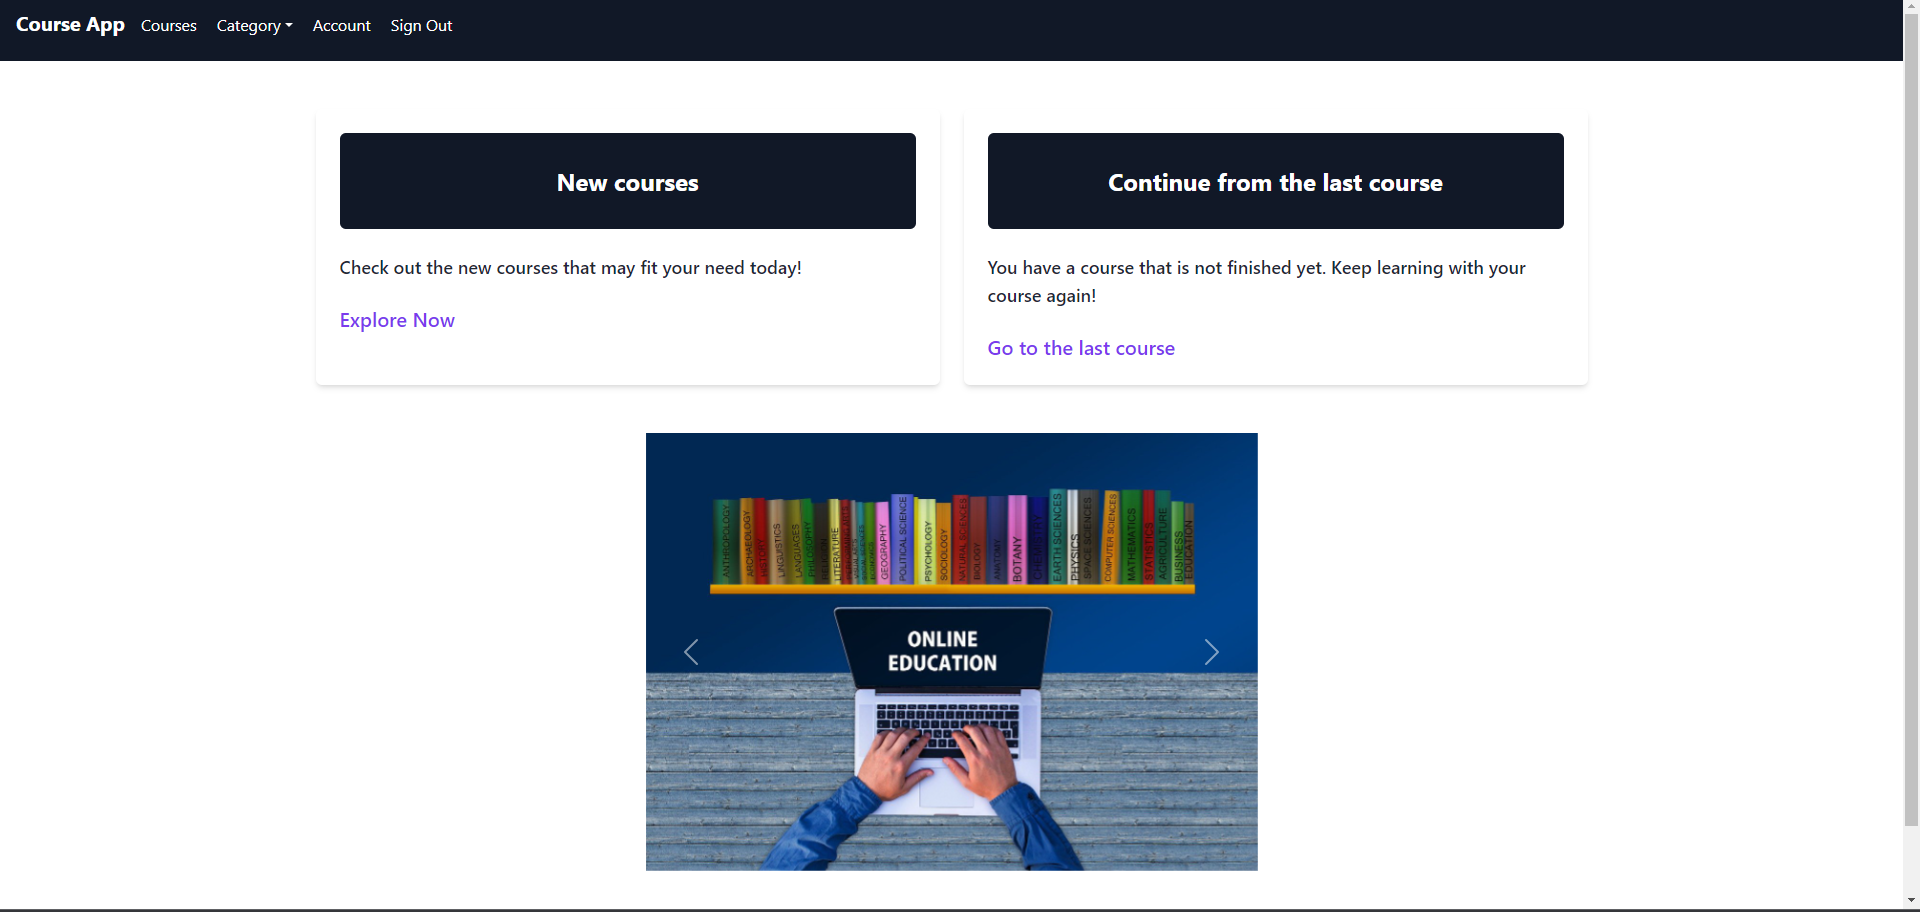
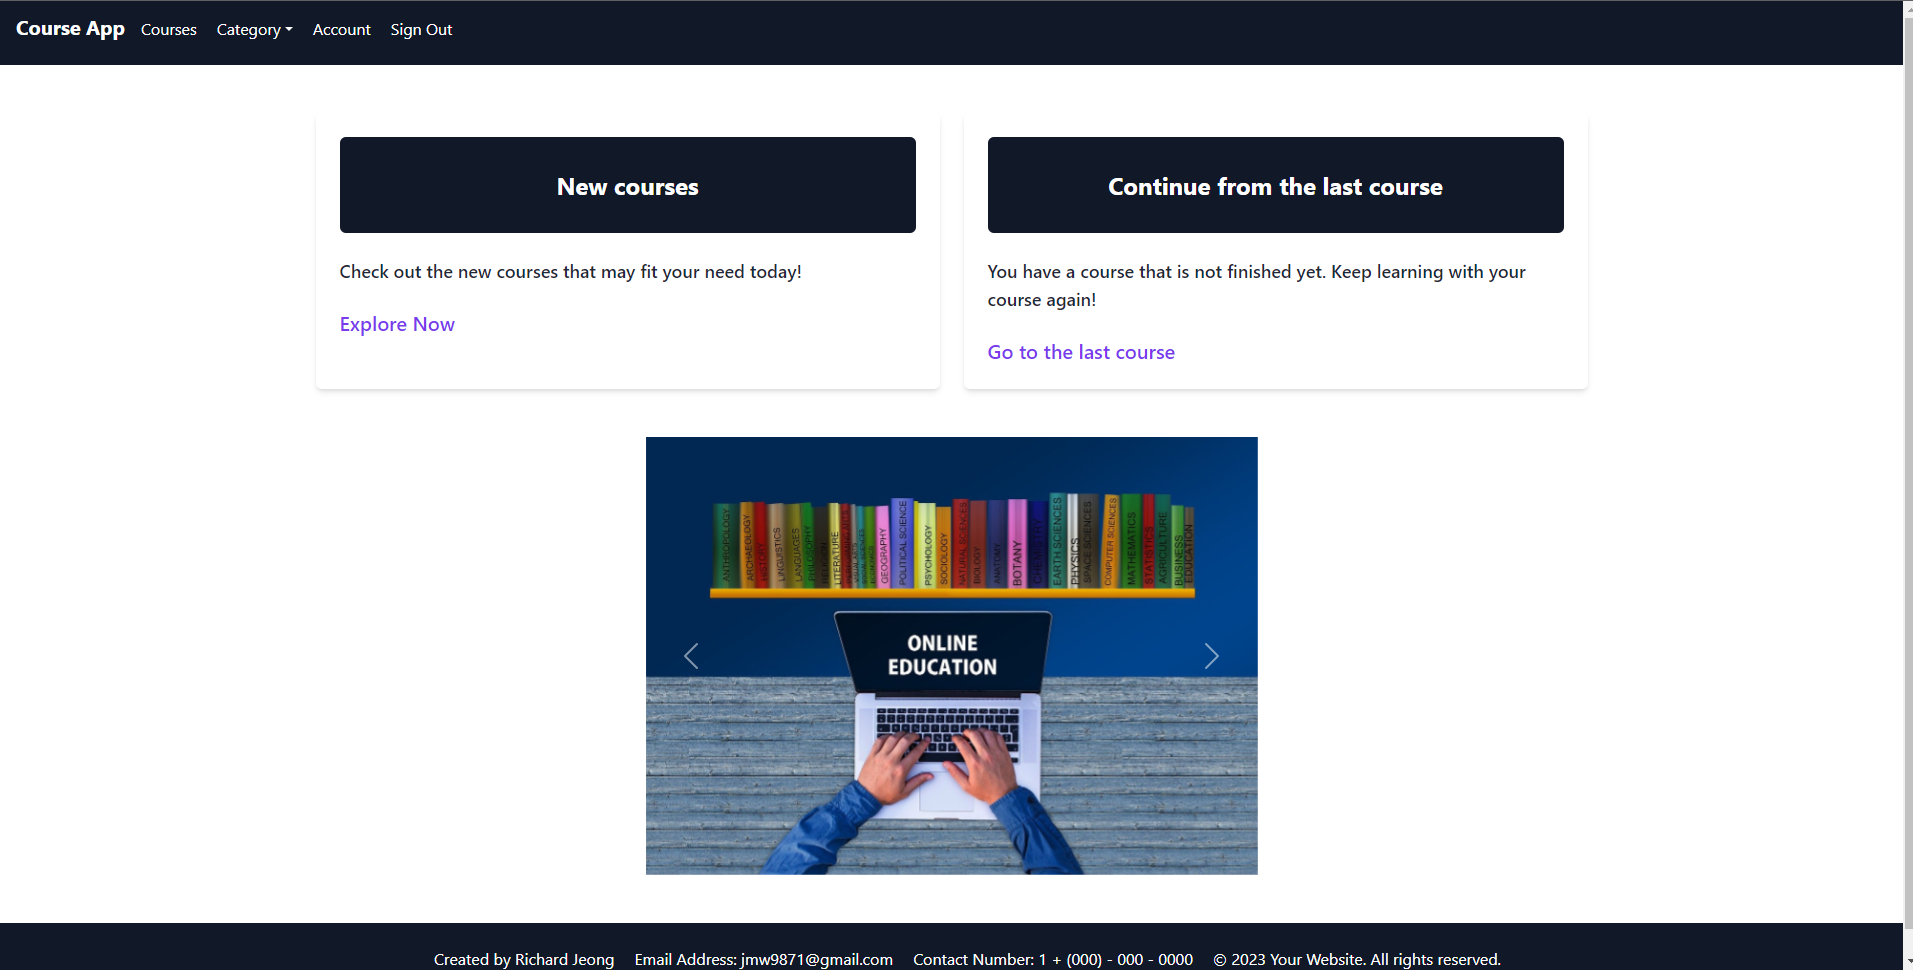
Updated courseInfo page styles.

diff --git a/src/components/CourseInfo.jsx b/src/components/CourseInfo.jsx
@@ -8,14 +8,15 @@ const CourseInfo = ({course, category}) => {
 
     return (
       <div className="flex justify-center items-center min-h-screen">
-        <div className="bg-white shadow-md rounded px-8 pt-6 pb-8 mb-4 flex flex-col my-2 w-1/2">
-          <h2 className="mb-4 text-xl font-bold text-gray-700">{title}</h2>
-          <h3 className="mb-2 text-lg font-semibold text-gray-600">Instructor: Instructor Name</h3>
-          <div className="mb-2 text-gray-600">Category: {category}</div>
-          <p className="mb-2 text-gray-600">Description: {description}</p>
-          <div className="mb-2 text-gray-600">Price: ${price}</div>
-          <div className="mb-2 text-gray-600">Upload Date: {updated_at}</div>
-          <div className="mb-4 text-gray-600">Number of Users: 100</div>
+        <div className="bg-white shadow-lg rounded px-8 pb-28 mb-4 flex flex-col my-2 md:w-1/2">
+          <div className="mt-24">
+          <h2 className="bg-gray-900 px-1 mb-3 text-xl font-bold text-white">{title}</h2>
+          <h3 className="px-2 mb-2 text-lg font-semibold text-gray-600">Instructor: Instructor Name</h3>
+          <div className="px-2 mb-2 text-gray-600">Category: {category}</div>
+          <p className="px-2 mb-2 text-gray-600">Description: {description}</p>
+          <div className="px-2 mb-2 text-gray-600">Price: ${price}</div>
+          <div className="px-2 mb-2 text-gray-600">Upload Date: {updated_at}</div>
+          <div className="px-2 mb-4 text-gray-600">Number of Users: 100</div>
           
           <form>
             <div className="mb-4">
@@ -30,6 +31,7 @@ const CourseInfo = ({course, category}) => {
               <input className="bg-blue-500 hover:bg-blue-700 text-white font-bold py-2 px-4 rounded focus:outline-none focus:shadow-outline" type="submit" value="Submit" />
             </div>
           </form>
+          </div>
         </div>
       </div>
     );

diff --git a/src/components/Footer.jsx b/src/components/Footer.jsx
@@ -3,14 +3,14 @@ import React from 'react';
 const Footer = () => {
   return (
     <footer className="bg-gray-900 text-white py-2 flex items-center justify-center mt-5">
-      <nav className="flex items-center space-x-2 space-y-3 mt-3">
-        <ul className="flex space-x-5">
-        <li>Created by Richard Jeong</li>
-        <li>Email Address: jmw9871@gmail.com</li>
-        <li>Contact Number: 1 + (000) - 000 - 0000</li>
-        <li>&copy; {new Date().getFullYear()} Your Website. All rights reserved.</li>
+      <div className="mx-auto p-4 md:flex items-center justify-center">
+        <span className="mb-3 px-3 text-sm sm:text-center">&copy; {new Date().getFullYear()} Your Website. All rights reserved.</span>
+        <ul class="flex flex-wrap items-center mt-3 text-sm font-medium sm:mt-0">
+          <li><p class="mr-4 md:mr-6">Email Address: jmw9871@gmail.com</p></li>
+          <li><p class="mr-4 md:mr-6">Contact Number: 1 + (000) - 000 - 0000</p></li>
+          <li><p class="mr-4 md:mr-6">Created by Richard Jeong</p></li>
         </ul>
-      </nav>
+      </div>
     </footer>
   );
 };

diff --git a/src/pages/_app.js b/src/pages/_app.js
@@ -6,6 +6,7 @@ import Script from "next/script";
 import Layout from "../components/Layout";
 import '@/styles/globals.css'
 import '../../node_modules/bootstrap/dist/css/bootstrap.min.css';
+import Footer from '@/components/Footer';
 
 export default function MyApp({ Component, pageProps }) {
   // Create a new supabase browser client on every first render.

diff --git a/src/components/CourseCard.jsx b/src/components/CourseCard.jsx
@@ -42,7 +42,7 @@ const CourseCard = ({ course, userId, category }) => {
     return (
         <div
           className={ClassNames(
-            "bg-white p-4 rounded-md shadow-md",
+            "bg-white p-4 rounded-md shadow-lg",
             bgColorClass,
             textColorClass
           )}

diff --git a/src/components/Layout.jsx b/src/components/Layout.jsx
@@ -27,7 +27,7 @@ const Layout = ({ children }) => {
         ) : (
             <main className="flex-grow">{children}</main>
         )}
-    <Footer />    
+        <Footer />
     </div>
   );
  };
